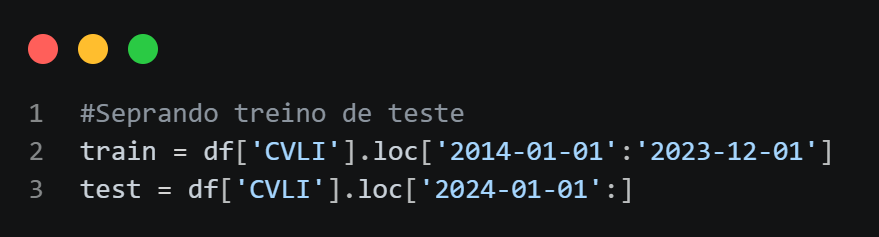
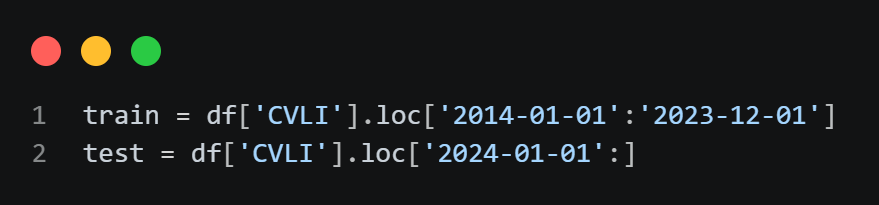
Enviando arquivos modificados

diff --git a/AutoARIMA.py b/AutoARIMA.py
@@ -68,10 +68,10 @@ modelo = pm.auto_arima(
                         trace = True, 
                         error_action='ignore', 
                         suppress_warnings = True, 
-                        stepwise = True #Não itera sobre todas as combinações possiveis do Arima 
+                        stepwise = True 
 )
 
- 
+ #Não itera sobre todas as combinações possiveis do Arima 
 print(modelo)
 #ARIMA(p, d,, q)
 '''
@@ -91,7 +91,6 @@ plt.show()
 
 # |--------------- Validação -----------------------|
 
-#Seprando treino de teste 
 train = df['CVLI'].loc['2014-01-01':'2023-12-01']
 test = df['CVLI'].loc['2024-01-01':]
 
